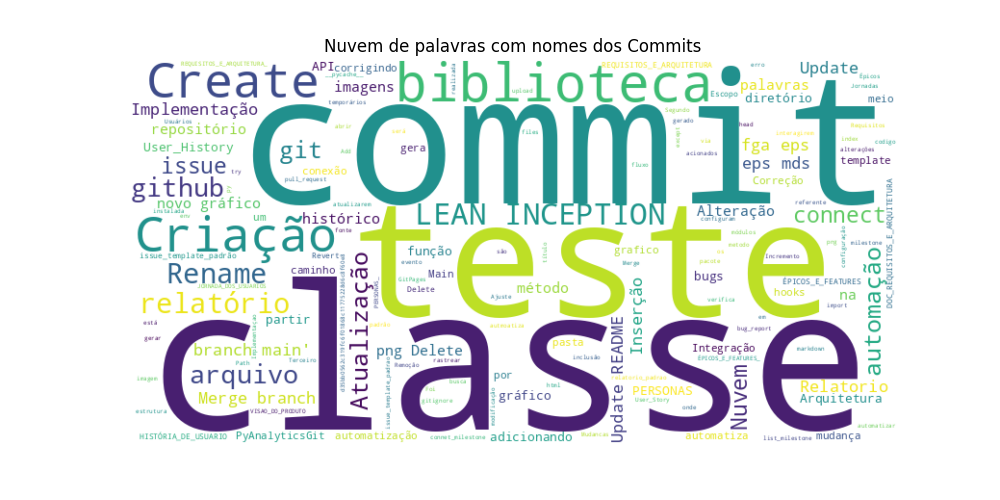
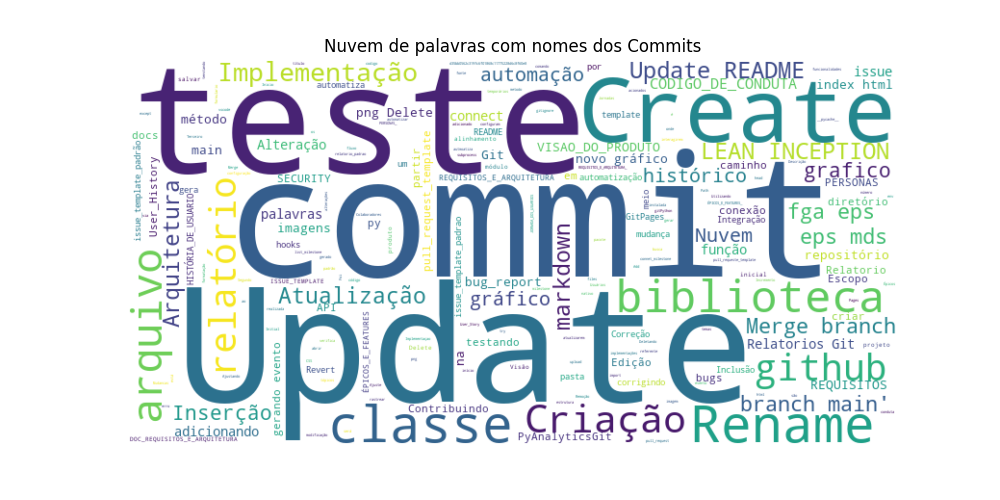
Criação do gráfico de pizza e atualização da nuvem de palavras

diff --git a/pyAnalyticsGit/Repositório/nuvem.py b/pyAnalyticsGit/Repositório/nuvem.py
@@ -1,3 +1,42 @@
+from wordcloud import STOPWORDS, WordCloud
+from commit import Commits
+from connect import Connect
+import os
+import matplotlib.pyplot as plt
 
-#analise = AnaliseTextual()
-#analise.gerar_nuvem_commits()
+class AnaliseTextual:
+    def __init__(self):
+        connect = Connect()
+        self.commits = connect.connect_commit()
+        self.palavras_ignoradas = ["o","a","e","i","u","de","des","da","das","do","dos","md","para","que"]
+
+    def listar_nomes_commits(self):
+        nomes_commits = []
+        for commit in self.commits:
+            nome_commit = commit["commit"]["message"]
+            nomes_commits.append(nome_commit)
+        return nomes_commits    
+
+    def gerar_nuvem_commits(self):
+        nomes_commits = self.listar_nomes_commits()
+        texto = " ".join(nomes_commits)
+
+        stopwords = set(STOPWORDS)
+        stopwords.update(self.palavras_ignoradas) 
+
+        wordcloud = WordCloud(width=800, height=400, background_color='white', stopwords=stopwords,
+                              colormap='viridis', max_words=300).generate(texto)
+
+        plt.figure(figsize=(10, 5))
+        plt.imshow(wordcloud, interpolation='bilinear') 
+        plt.axis('off')
+        plt.title('Nuvem de palavras com nomes dos Commits')
+
+        if os.path.exists('pyAnalyticsGit/nuvem.png'):
+            os.remove('pyAnalyticsGit/nuvem.png')
+
+        plt.savefig('pyAnalyticsGit/nuvem.png')
+        plt.show()
+
+analise = AnaliseTextual()
+analise.gerar_nuvem_commits()

diff --git a/pyAnalyticsGit/Repositório/grafico_pizza.py b/pyAnalyticsGit/Repositório/grafico_pizza.py
@@ -1,0 +1,38 @@
+from collections import defaultdict
+import os
+import matplotlib.pyplot as plt
+from connect import Connect
+from issue import Issue
+
+class GraficoPizza:
+    def __init__(self):
+        connect = Connect()
+        self.issues = connect.connect_issue()
+
+    def criar_grafico_pizza(self):
+        label_count = defaultdict(int)
+        total_issues = len(self.issues)
+
+        for issue in self.issues:
+            labels = issue["labels"]
+            for label in labels:
+                label_count[label["name"]] += 1
+
+        labels = list(label_count.keys())
+        counts = list(label_count.values())
+        percentages = [(count / total_issues) * 100 for count in counts]
+        sorted_labels, sorted_percentages = zip(*sorted(zip(labels, percentages), key=lambda x: x[1], reverse=True))
+
+        fig, ax = plt.subplots() 
+        ax.pie(sorted_percentages, labels=sorted_labels, shadow=True, autopct='%1.1f%%', startangle=90)
+        ax.legend(loc='center right', bbox_to_anchor=(1.0, 0.5), fontsize='medium', title='Tags')
+        ax.set_title('Grafico de Issues por Tags')
+        ax.axis('equal')
+        if os.path.exists('pyAnalyticsGit/grafico_pizza.png'):
+            os.remove('pyAnalyticsGit/grafico_pizza.png')   
+
+        plt.savefig('pyAnalyticsGit/grafico_pizza.png')
+        plt.show()
+
+grafico_obj = GraficoPizza()
+grafico_obj.criar_grafico_pizza()
